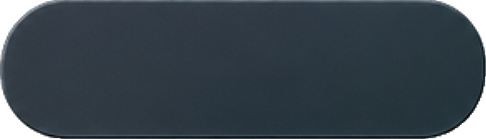
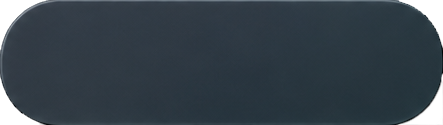
2

diff --git a/src/pages/DashboardPage.tsx b/src/pages/DashboardPage.tsx
@@ -240,8 +240,8 @@ export function DashboardPage() {
       </section>
 
       <section className="mb-5 grid gap-4 xl:grid-cols-[1.1fr_0.9fr]">
-        <Card className="surface-gas-shell rounded-[6.75rem]">
-          <CardHeader className="px-2 pb-1 pt-18">
+        <Card className="surface-flow rounded-[4.75rem]">
+          <CardHeader className="px-2 pb-1 pt-8">
             <CardTitle className="text-base text-center text-muted-foreground">Цінові коридори</CardTitle>
           </CardHeader>
           <CardContent className="h-62 rounded-[1.25rem] p-1 pt-0">
@@ -438,13 +438,13 @@ function ProgressRow({ label, value, total }: { label: string; value: number; to
 function InsightCard({ icon, title, value, hint }: { icon: ReactNode; title: string; value: string; hint: string }) {
   return (
     <Card className="surface-market">
-      <CardContent className="p-4">
+      <CardContent className="p-4 flex justify-between">
         <div className="mb-3 flex items-center gap-2 text-muted-foreground">
           {icon}
           <span className="text-sm">{title}</span>
         </div>
         <div className="text-2xl font-semibold tabular-nums">{value}</div>
-        <div className="mt-2 text-xs text-muted-foreground">{hint}</div>
+        
       </CardContent>
     </Card>
   );
@@ -460,7 +460,7 @@ function Leaderboard({ title, rows, empty }: { title: string; rows: { label: str
       <CardContent className="space-y-3">
         {!rows.length ? <div className="text-sm text-muted-foreground">{empty}</div> : null}
         {rows.map((row) => (
-          <div key={row.label} className="surface-market-row rounded-[1.4rem] px-4 py-3">
+          <div key={row.label} className="surface rounded-[0.9rem] px-4 py-3">
             <div className="mb-1 flex items-center justify-between gap-3 text-sm">
               <span className="truncate">{row.label}</span>
               <span className="tabular-nums text-muted-foreground">{fmtNumber(row.value)}</span>

diff --git a/src/pages/AnalyticsPage.tsx b/src/pages/AnalyticsPage.tsx
@@ -411,9 +411,9 @@ function Metric({ icon, label, value, hint }: { icon: ReactNode; label: string; 
 
 function SummaryCell({ label, value }: { label: string; value: string }) {
   return (
-    <div className="surface-secondary inset-surface rounded-[1.25rem] p-3">
+    <div className="surface-market-row inset-surface rounded-[1.25rem] p-3">
       <div className="text-xs text-muted-foreground">{label}</div>
-      <div className="mt-1 text-lg font-semibold tabular-nums">{value}</div>
+      <div className="mt-1 text-base font-semibold tabular-nums">{value}</div>
     </div>
   );
 }

diff --git a/src/styles.css b/src/styles.css
@@ -220,6 +220,10 @@
     --surface-image: url("../приклад/gas-shell.png");
     border-radius: 2rem;
   }
+      .surface-team-shell {
+    --surface-image: url("../приклад/team-pill-shell.png");
+    border-radius: 2rem;
+  }
 
   .surface-upgrade {
     --surface-image: url("../приклад/upgrade-shell.png");